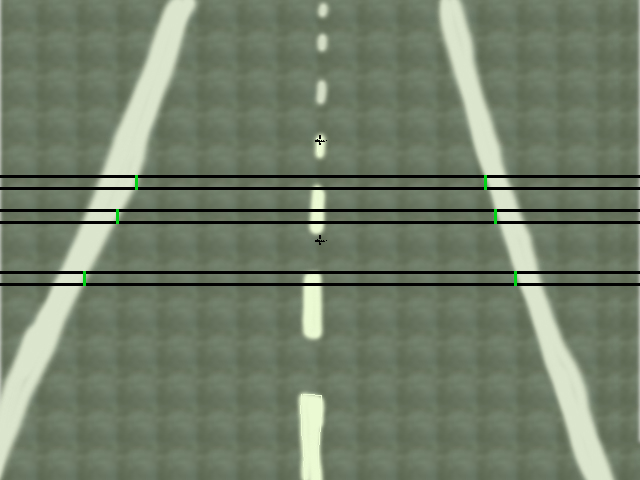
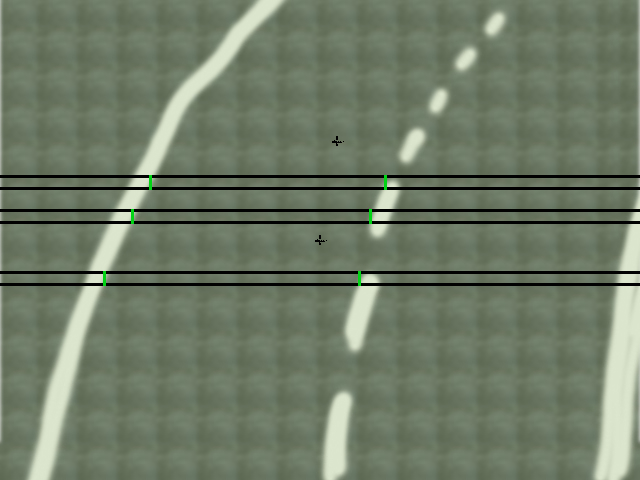
v1.0.11 Better steering logic

diff --git a/tank-pi/sites/tracktest/routes/wrappers.js b/tank-pi/sites/tracktest/routes/wrappers.js
@@ -68,7 +68,7 @@ exports.markThirdSample = function(imgIn, callback) {
     debug('slopeLeft1st: ' + logistics.leftFirstSlopeSegment + ' and slopeLeft2nd: ' + logistics.leftSecondSlopeSegment + ' with difference: ' + logistics.leftDiff);
     logistics.rightFirstSlopeSegment =   parseInt(Math.atan((logistics.nRight2 - logistics.nRight1) / parseInt(logistics.imgHeight * (config.firstY - config.secondY))) * 180 / Math.PI);
     logistics.rightSecondSlopeSegment =  parseInt(Math.atan((logistics.nRight3 - logistics.nRight2) / parseInt(logistics.imgHeight * (config.firstY - config.secondY))) * 180 / Math.PI);
-    logistics.rightDiff =                logistics.rightFirstSlopeSegment - logistics.rightSecondSlopeSegment;
+    logistics.rightDiff =                logistics.rightSecondSlopeSegment - logistics.rightFirstSlopeSegment;
     debug('slopeRight1st: ' + logistics.rightFirstSlopeSegment + ' and slopeRight2nd: ' + logistics.rightSecondSlopeSegment + ' with difference: ' + logistics.rightDiff);
     debug('Straight: ' + (Math.abs(logistics.leftDiff + logistics.rightDiff) < 5));
     if (Math.abs(logistics.leftDiff + logistics.rightDiff) < 5) {
@@ -87,13 +87,13 @@ exports.markThirdSample = function(imgIn, callback) {
       logistics.rightGreatSlopeSegment =   parseInt(Math.atan(Math.abs(logistics.nRight1 - logistics.nRight3) / parseInt(logistics.imgHeight * (config.firstY - config.thirdY))) * 180 / Math.PI);
       debug('slopeGreatLeft: ' + logistics.leftGreatSlopeSegment + ' and slopeGreatRight: ' + logistics.rightGreatSlopeSegment);
       if (logistics.leftGreatSlopeSegment && logistics.rightGreatSlopeSegment) {
-        logistics.trend = (Math.abs(logistics.leftGreatSlopeSegment) < Math.abs(logistics.rightGreatSlopeSegment)) ? logistics.leftGreatSlopeSegment : logistics.rightGreatSlopeSegment;
+        logistics.trend = 90 - (Math.abs(logistics.leftGreatSlopeSegment) < Math.abs(logistics.rightGreatSlopeSegment)) ? logistics.leftGreatSlopeSegment : logistics.rightGreatSlopeSegment;
       } else {
         // One of them was zero, so use the other
-        logistics.trend = logistics.leftGreatSlopeSegment ? logistics.leftGreatSlopeSegment : logistics.rightGreatSlopeSegment;
+        logistics.trend = 90 - logistics.leftGreatSlopeSegment ? logistics.leftGreatSlopeSegment : logistics.rightGreatSlopeSegment;
       }
     }
-    debug('Trend: ' + logistics.trend + ' degrees from horizontal');
+    debug('Trend: ' + logistics.trend + ' degrees from centerline');
     callback(null, imgOut);
   });
 } // markThirdSample()

diff --git a/tank-pi/sites/tracktest/routes/prototypes.js b/tank-pi/sites/tracktest/routes/prototypes.js
@@ -40,17 +40,19 @@ var logistics =   require('./logistics');
   Jimp.prototype.markDirection = function(cb) {
     // Unsure if this should be (90-trend) or half of this angle. Also unsure of whether or not I should be subtracting this from 90.
     //debug('Trend: ' + parseInt((90 - logistics.trend) / 2) + ' degrees right of centerline');
+    // Definitively: The logistics.trend value is the degree from the centerline, as measured at the top.
     try {
       Jimp.read('./public/images/center-mark-mask.jpg', (errRead, imgMask) => {
         if (errRead) console.error('Jimp.read(): ' + errRead);
-        var radiansTrend =    logistics.trend * Math.PI / 180.0;
+        var radiansTrend =    (90 - logistics.trend) * Math.PI / 180.0;
         var midX =            parseInt((this.bitmap.width / 2) +  (config.trendLineLength * Math.cos(radiansTrend * config.trendAngleMultiplier)));
         var midY =            parseInt((this.bitmap.height / 2) + (-1 * config.trendLineLength * Math.sin(radiansTrend * config.trendAngleMultiplier)));
-        logistics.direction = 90 - parseInt((radiansTrend * config.trendAngleMultiplier) * 180.0 / Math.PI);
-        debug('radiansTrend: ' + radiansTrend);
-        debug('cos: ' + (config.trendLineLength * Math.cos(radiansTrend * config.trendAngleMultiplier)));
-        debug('sin: ' + (-1 * config.trendLineLength * Math.sin(radiansTrend * config.trendAngleMultiplier)));
-        debug('midX: ' + midX + ', midY: ' + midY);
+        // logistics.direction = 90 - parseInt((radiansTrend * config.trendAngleMultiplier) * 180.0 / Math.PI);
+        // debug('radiansTrend: ' + radiansTrend);
+        // debug('cos: ' + (config.trendLineLength * Math.cos(radiansTrend * config.trendAngleMultiplier)));
+        // debug('sin: ' + (-1 * config.trendLineLength * Math.sin(radiansTrend * config.trendAngleMultiplier)));
+        // debug('midX: ' + midX + ', midY: ' + midY);
+        logistics.direction = logistics.trend;
         debug('direction: ' + logistics.direction + ' degrees from centerline');
         this.mask(imgMask, midX - parseInt(imgMask.bitmap.width / 2), midY - parseInt(imgMask.bitmap.height / 2), function(errMask, imgMasked) {
           if (errMask) console.error('this.mask(): ' + errMask);
